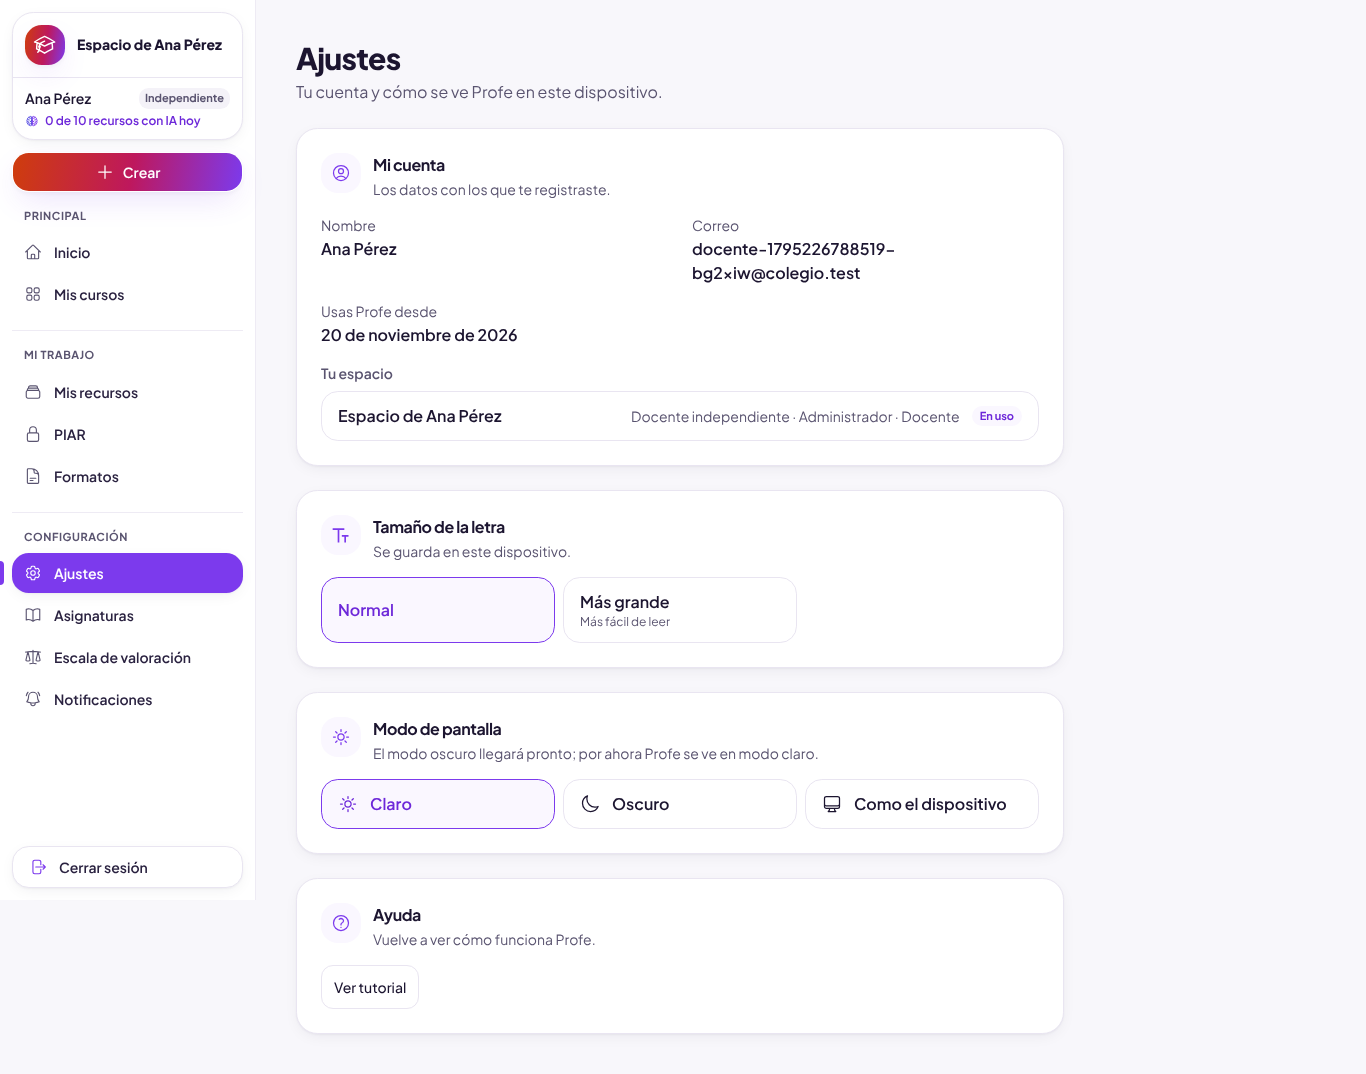
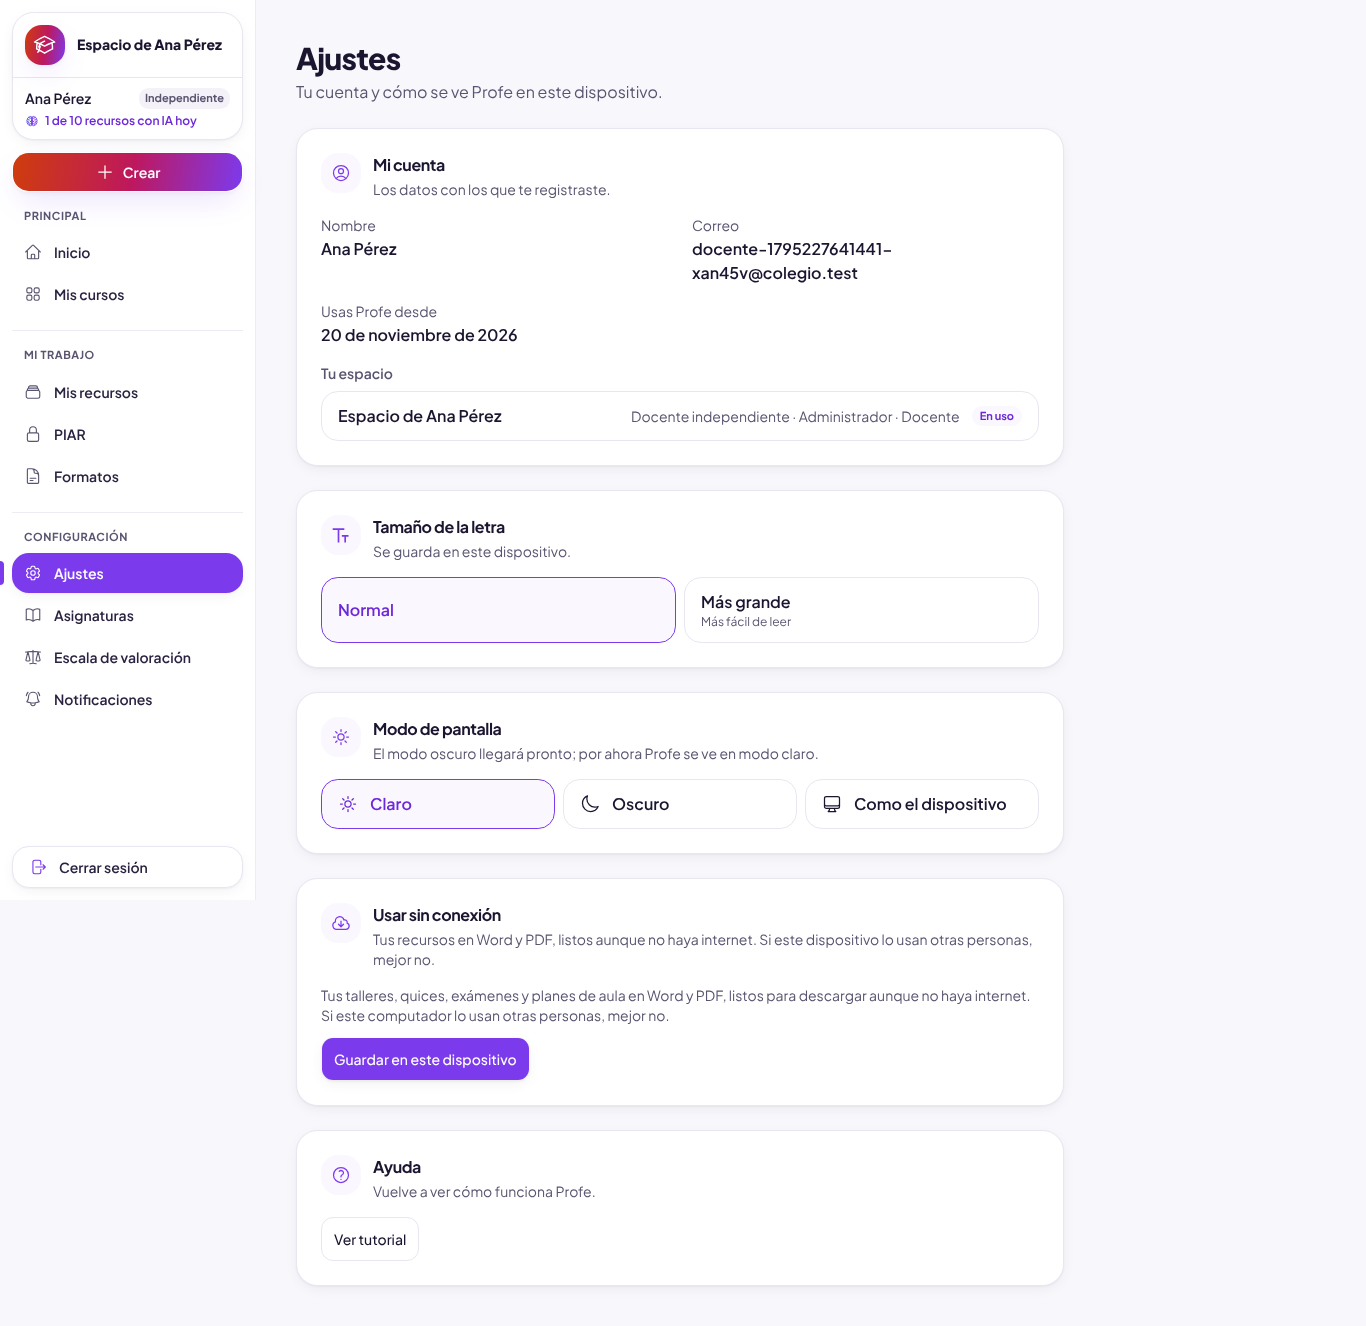
Ajustes: usar sin conexión; "Crear con IA" del curso como en las demás vistas; WhatsApp en el computador
- Ajustes → "Usar sin conexión": activar, ver cuántos van guardados y dejar de guardar.
- En el curso, "Crear con IA" con el color principal y "+" (sin degradado ni ícono de IA).
- SPEC-0031 RN-04: "Enviar por WhatsApp" en el computador descarga la hoja en PDF y abre WhatsApp
  Web; pruebas e2e de CA-0031-01/02/03 (no tenían).

Claude-Session: https://claude.ai/code/session_01TLUAYZfCHSMmitiEZC3hgK

diff --git a/apps/web/tests/e2e/spec-0031.spec.ts b/apps/web/tests/e2e/spec-0031.spec.ts
@@ -1,0 +1,73 @@
+import type { Page } from "@playwright/test";
+import { expect, test } from "./fixtures";
+import { choose, signUpIndependentTeacher } from "./helpers";
+
+// SPEC-0031: compartir por WhatsApp e imprimir directo, en el computador (AI Engine de prueba).
+
+async function quiz(page: Page) {
+  await page.getByRole("button", { name: "Crear mi primer curso" }).first().click();
+  await choose(page, "Asignatura", "Matemáticas");
+  await choose(page, "Grado", "6°");
+  await page.getByLabel("Grupo").fill("6A");
+  await page.getByRole("button", { name: "Crear curso" }).click();
+  await expect(page.getByRole("dialog")).toHaveCount(0);
+  await page.goto("/create?type=QUIZ");
+  await page.getByLabel(/tema vas a trabajar/).fill("Fracciones");
+  await page.getByRole("button", { name: "Usar este tema" }).click();
+  await page.getByRole("button", { name: "Generar quiz" }).click();
+  await expect(page.getByRole("button", { name: "Imprimir" })).toBeVisible({ timeout: 30_000 });
+}
+
+test("CA-0031-01/02/03: imprimir abre el PDF en línea, sin «Compartir» de celular y con «Enviar por WhatsApp»", async ({
+  page,
+}) => {
+  test.setTimeout(120_000);
+  await signUpIndependentTeacher(page);
+  await quiz(page);
+
+  // CA-0031-02: Chromium de escritorio no comparte archivos: no aparece el ícono del celular.
+  await expect(page.getByRole("button", { name: "Compartir (WhatsApp u otra app)" })).toHaveCount(
+    0,
+  );
+
+  // Chromium sin interfaz no abre PDF en pestañas: se registra lo que recibe window.open.
+  await page.evaluate(() => {
+    const w = window as unknown as { opened: string[] };
+    w.opened = [];
+    window.open = (url?: string | URL) => {
+      w.opened.push(String(url));
+      return null;
+    };
+  });
+  const opened = () => page.evaluate(() => (window as unknown as { opened: string[] }).opened);
+
+  // CA-0031-01: "Imprimir" abre la hoja del estudiante en PDF, en línea.
+  await page.getByRole("button", { name: "Imprimir" }).click();
+  const printUrl = new URL((await opened())[0], page.url());
+  expect(printUrl.searchParams.get("doc")).toBe("student");
+  expect(printUrl.searchParams.get("format")).toBe("pdf");
+  expect(printUrl.searchParams.get("inline")).toBe("1");
+  const response = await page.request.get(printUrl.pathname + printUrl.search);
+  expect(response.headers()["content-disposition"]).toMatch(/^inline/);
+
+  // CA-0031-03: en el computador, "Enviar por WhatsApp" descarga la hoja en PDF y abre WhatsApp Web.
+  const [download] = await Promise.all([
+    page.waitForEvent("download"),
+    page.getByRole("button", { name: "Enviar por WhatsApp" }).click(),
+  ]);
+  expect(download.url()).toMatch(/\/export\?doc=student&format=pdf/);
+  expect((await opened())[1]).toBe("https://web.whatsapp.com/");
+  await expect(page.getByText("Se descargó la hoja en PDF")).toBeVisible();
+});
+
+test("Ajustes: guardar los recursos sin conexión se activa y se apaga desde Ajustes", async ({
+  page,
+}) => {
+  await signUpIndependentTeacher(page);
+  await page.goto("/settings");
+  const offline = page.getByRole("region", { name: "Usar sin conexión" });
+  await offline.getByRole("button", { name: "Guardar en este dispositivo" }).click();
+  await expect(offline.getByRole("status")).toContainText("Sin conexión: guardados");
+  await offline.getByRole("button", { name: "Dejar de guardar en este dispositivo" }).click();
+  await expect(offline.getByRole("button", { name: "Guardar en este dispositivo" })).toBeVisible();
+});

diff --git a/apps/web/app/(app)/courses/[courseId]/resources/[resourceId]/share-print.tsx b/apps/web/app/(app)/courses/[courseId]/resources/[resourceId]/share-print.tsx
@@ -1,7 +1,9 @@
 "use client";
 
 import { useEffect, useRef, useState } from "react";
+import { FaWhatsapp } from "react-icons/fa";
 import { HiOutlinePrinter, HiOutlineShare } from "react-icons/hi2";
+import { sileo } from "sileo";
 import { Button } from "@/components/ui/button";
 
 /**
@@ -10,6 +12,8 @@ import { Button } from "@/components/ui/button";
  *   página porque Safari solo deja compartir justo después del toque (sin esperar la red). Si el
  *   navegador no comparte archivos, se descarga como siempre.
  * - Imprimir: abre el PDF en el navegador, listo para imprimir.
+ * - WhatsApp (computador): WhatsApp Web no recibe archivos desde otra página, así que se descarga
+ *   la hoja en PDF y se abre WhatsApp Web para adjuntarla en el chat del grupo.
  */
 export function SharePrint({
   courseId,
@@ -22,8 +26,11 @@ export function SharePrint({
   resourceId: string;
   version: number;
   title: string;
-  /** "share": botón de ícono para la barra del celular; "print": botón de texto en escritorio. */
-  variant: "share" | "print";
+  /**
+   * "share": botón de ícono para la barra del celular; "print" y "whatsapp": botones de texto en
+   * escritorio.
+   */
+  variant: "share" | "print" | "whatsapp";
 }) {
   const url = `/courses/${courseId}/resources/${resourceId}/export?doc=student&format=pdf&version=${version}`;
   const file = useRef<File | null>(null);
@@ -64,6 +71,31 @@ export function SharePrint({
       >
         <HiOutlinePrinter aria-hidden />
         Imprimir
+      </Button>
+    );
+  }
+
+  if (variant === "whatsapp") {
+    return (
+      <Button
+        type="button"
+        size="lg"
+        variant="outline"
+        className="max-md:hidden"
+        onClick={() => {
+          const link = document.createElement("a");
+          link.href = url;
+          link.download = "";
+          link.click();
+          window.open("https://web.whatsapp.com/", "_blank", "noopener");
+          sileo.success({
+            title: "Se descargó la hoja en PDF",
+            description: "En WhatsApp, abre el chat del grupo y adjunta el archivo descargado.",
+          });
+        }}
+      >
+        <FaWhatsapp aria-hidden />
+        Enviar por WhatsApp
       </Button>
     );
   }

diff --git a/apps/web/components/offline/offline-panel.tsx b/apps/web/components/offline/offline-panel.tsx
@@ -222,3 +222,47 @@ export function OfflineBadge({ resourceId, version }: { resourceId: string; vers
     </span>
   );
 }
+
+/**
+ * Ajustes → "Sin conexión": la misma preferencia del navegador que preguntan "Mis recursos" y la hoja
+ * del celular (SPEC-0013 RN-14, SPEC-0018), para cambiarla cuando el docente quiera.
+ */
+export function OfflineSettings() {
+  const preference = usePreference();
+  const { saved, total, syncing } = useOfflineState();
+  if (preference === "unknown") return null;
+  const count = Object.keys(saved).length;
+
+  if (preference === "on") {
+    return (
+      <div className="flex flex-col gap-3">
+        <p className="text-sm font-semibold text-success">
+          <SavedCount />
+        </p>
+        <div className="flex flex-wrap gap-2">
+          {!syncing && count < total && (
+            <Button type="button" variant="outline" className="min-h-11" onClick={forceOfflineSync}>
+              Guardar ahora
+            </Button>
+          )}
+          <Button type="button" variant="outline" className="min-h-11" onClick={stopSaving}>
+            Dejar de guardar en este dispositivo
+          </Button>
+        </div>
+      </div>
+    );
+  }
+
+  return (
+    <div className="flex flex-col gap-3">
+      <p className="text-sm text-muted-foreground">{EXPLANATION}</p>
+      <Button
+        type="button"
+        className="min-h-11 self-start"
+        onClick={() => setOfflinePreference("on")}
+      >
+        Guardar en este dispositivo
+      </Button>
+    </div>
+  );
+}

diff --git a/apps/web/app/(app)/settings/settings-panels.tsx b/apps/web/app/(app)/settings/settings-panels.tsx
@@ -3,6 +3,7 @@
 import { useState, type ReactNode } from "react";
 import type { IconType } from "react-icons";
 import {
+  HiOutlineCloudArrowDown,
   HiOutlineComputerDesktop,
   HiOutlineMoon,
   HiOutlineQuestionMarkCircle,
@@ -12,6 +13,7 @@ import {
 import { RiFontSize2 } from "react-icons/ri";
 import { useLargeText } from "@/components/app-shell/text-size";
 import { useShellStore } from "@/components/app-shell/use-shell-store";
+import { OfflineSettings } from "@/components/offline/offline-panel";
 import { Button } from "@/components/ui/button";
 import { cn } from "@/lib/utils";
 
@@ -217,6 +219,19 @@ export function HelpCard() {
       >
         Ver tutorial
       </Button>
+    </Section>
+  );
+}
+
+/** Guardar los recursos para usarlos sin internet (solo docentes: quien no da clases no tiene). */
+export function OfflineCard() {
+  return (
+    <Section
+      title="Usar sin conexión"
+      description="Tus recursos en Word y PDF, listos aunque no haya internet. Si este dispositivo lo usan otras personas, mejor no."
+      icon={HiOutlineCloudArrowDown}
+    >
+      <OfflineSettings />
     </Section>
   );
 }

diff --git a/apps/web/app/(app)/courses/[courseId]/page.tsx b/apps/web/app/(app)/courses/[courseId]/page.tsx
@@ -5,9 +5,9 @@ import {
   HiOutlineArrowLeft,
   HiOutlineBookOpen,
   HiOutlineCalendarDays,
+  HiOutlinePlus,
   HiOutlineRectangleStack,
 } from "react-icons/hi2";
-import { AiAvatar } from "@/components/brand/ai-avatar";
 import { ScrollableRow } from "@/components/scrollable-row";
 import { buttonVariants } from "@/components/ui/button";
 import { subjectTint } from "@/lib/subject-tint";
@@ -109,9 +109,10 @@ export default async function CoursePage({
           </div>
           <Link
             href={`/create?courseId=${course.id}`}
-            className={cn(buttonVariants({ variant: "brand", size: "lg" }), "max-sm:hidden")}
+            className={cn(buttonVariants({ size: "lg" }), "max-sm:hidden")}
           >
-            <AiAvatar size={20} tone="light" />
+            {/* Igual que en las demás vistas: color principal y "+" (consistencia). */}
+            <HiOutlinePlus aria-hidden />
             Crear con IA
           </Link>
         </div>

diff --git a/apps/web/app/(app)/courses/[courseId]/resources/[resourceId]/resource-view.tsx b/apps/web/app/(app)/courses/[courseId]/resources/[resourceId]/resource-view.tsx
@@ -456,9 +456,16 @@ export function ResourceView({
                 return true;
               }}
             />
-            {/* Bloque 5 de usabilidad: imprimir (escritorio) y compartir por WhatsApp (celular). */}
+            {/* Bloque 5 de usabilidad: imprimir y WhatsApp (escritorio) y compartir por WhatsApp (celular). */}
             <SharePrint
               variant="print"
+              courseId={resource.courseId}
+              resourceId={resource.id}
+              version={resource.version}
+              title={resource.title}
+            />
+            <SharePrint
+              variant="whatsapp"
               courseId={resource.courseId}
               resourceId={resource.id}
               version={resource.version}

diff --git a/apps/web/app/(app)/settings/page.tsx b/apps/web/app/(app)/settings/page.tsx
@@ -2,7 +2,7 @@ import type { Metadata } from "next";
 import { PageHeader } from "@/components/page-header";
 import { getAccount } from "@/modules/auth";
 import { requireTenant } from "@/modules/tenancy";
-import { AccountCard, DisplaySettings, HelpCard } from "./settings-panels";
+import { AccountCard, DisplaySettings, HelpCard, OfflineCard } from "./settings-panels";
 
 export const metadata: Metadata = { title: "Ajustes" };
 
@@ -36,6 +36,7 @@ export default async function SettingsPage() {
         }))}
       />
       <DisplaySettings />
+      {ctx.roles.includes("TEACHER") && <OfflineCard />}
       <HelpCard />
     </div>
   );

diff --git a/apps/web/app/(app)/courses/[courseId]/resources/[resourceId]/quiz-editor.tsx b/apps/web/app/(app)/courses/[courseId]/resources/[resourceId]/quiz-editor.tsx
@@ -375,7 +375,9 @@ export function QuizEditor({
                     itemKey={q.id}
                     label={label}
                     disabledReason={
-                      dirty || !savedKeys.has(q.id) ? "Guarda tus cambios antes de mejorarla con IA" : null
+                      dirty || !savedKeys.has(q.id)
+                        ? "Guarda tus cambios antes de mejorarla con IA"
+                        : null
                     }
                     renderProposal={(item) => <QuestionView q={item} dba={dba} />}
                     actions={actions}

diff --git a/CLAUDE.md b/CLAUDE.md
@@ -31,7 +31,7 @@ Plataforma de gestión y producción pedagógica asistida por IA para docentes e
 - SPEC-0024 implementada (ADR-0019): plan de aula como recurso `LESSON_PLAN` (sesiones con inicio, desarrollo y cierre, evaluación y rúbrica de 4 desempeños; contrato `generation-lesson-plan.v1`, cuesta 1 del cupo; editor `lesson-plan-editor.tsx`; Word/PDF `modules/documents/build-lesson-plan.ts`). Escala de valoración del espacio en `institutions.gradingBands` (`modules/institutions/grading-scale.ts`, nacional 1,0–5,0 por defecto; la cambia el administrador o el docente independiente en `/grading-scale`); la rúbrica la lee al verse o descargarse, nunca se copia en el plan. La IA no escribe rangos ni notas.
 - Prueba de usabilidad del 2026-11-20: informe en [docs/usabilidad/2026-11-20-recorrido-docente.md](docs/usabilidad/2026-11-20-recorrido-docente.md); recorrido reproducible con `npm run ux:recorrido -w @profe/web`.
 - Mejoras de usabilidad (bloques 1–8 de [docs/usabilidad/proximos-pasos.md](docs/usabilidad/proximos-pasos.md)) implementadas el 2026-11-21: SPEC-0027 ajustes rápidos con botones como propuesta (ADR-0020, anexo `adjust.v1`, tabla `resource_adjustments`, cuesta cupo), SPEC-0028 "Usar también en…" mis otros grupos sin cupo, SPEC-0029 el recurso abre como la hoja que se imprime (`previewResource` + `DocPreview`; en e2e, `openEditor(page)` para editar), SPEC-0030 "Para esta semana" en el Inicio, SPEC-0031 compartir e imprimir, SPEC-0032 primer curso con temas propuestos, SPEC-0033 barra de navegación abajo en el celular, SPEC-0034 detalles (avisos abajo, letra más grande, Borrador/Listo).
-- Ajustes (`/settings`): mi cuenta, tamaño de la letra, modo de pantalla (solo visual por ahora) y tutorial; la tarjeta del menú solo tiene instalar y cerrar sesión. "Regenerar" de un ítem ahora es "Mejorar".
+- Ajustes (`/settings`): mi cuenta, tamaño de la letra, modo de pantalla (solo visual por ahora), usar sin conexión y tutorial; la tarjeta del menú solo tiene instalar y cerrar sesión. "Regenerar" de un ítem ahora es "Mejorar". En el computador, el recurso tiene "Enviar por WhatsApp" (SPEC-0031 RN-04).
 - **Siguiente:** volver a correr el recorrido de usabilidad, probar "Compartir" en teléfonos reales; después SPEC-0025 resultados → dificultades → refuerzo y SPEC-0026 validación con docentes (bloque 9).
 - Índice de specs y su estado: [docs/specs/README.md](docs/specs/README.md)
 - Decisiones de arquitectura: [docs/adr/README.md](docs/adr/README.md)

diff --git a/docs/specs/SPEC-0031-compartir-e-imprimir.md b/docs/specs/SPEC-0031-compartir-e-imprimir.md
@@ -23,6 +23,10 @@ Lo que el docente hace con el material es mandarlo al grupo de WhatsApp o imprim
   compartir falla, se descarga como siempre.
 - **RN-02 — Imprimir (computador).** "Imprimir" abre el PDF de la hoja en el navegador
   (`inline=1`, `content-disposition: inline`), listo para imprimir.
+- **RN-04 — WhatsApp (computador).** "Enviar por WhatsApp" junto a "Imprimir": WhatsApp Web no
+  recibe archivos desde otra página, así que descarga la hoja del estudiante en PDF, abre
+  `web.whatsapp.com` en otra pestaña y avisa "adjunta el archivo descargado". (Agregado el
+  2026-11-21: en el computador el docente no veía nada de WhatsApp.)
 - **RN-03:** las mismas reglas de acceso de la ruta `export` (404 a lo ajeno) y su límite por minuto.
 
 ## 3. Criterios de aceptación
@@ -30,6 +34,9 @@ Lo que el docente hace con el material es mandarlo al grupo de WhatsApp o imprim
 - **CA-0031-01:** "Imprimir" abre `…/export?doc=student&format=pdf&inline=1` y el servidor responde
   `inline`.
 - **CA-0031-02:** en un navegador sin `navigator.canShare` para archivos no aparece "Compartir".
+- **CA-0031-03:** en el computador, "Enviar por WhatsApp" descarga la hoja en PDF y abre WhatsApp Web.
+
+Pruebas: `apps/web/tests/e2e/spec-0031.spec.ts`.
 
 Pendiente: validación manual en un iPhone y un Android reales (el contenedor de pruebas no comparte
 archivos).

diff --git a/docs/ESTADO.md b/docs/ESTADO.md
@@ -19,6 +19,16 @@ Bitácora para retomar el trabajo después de borrar la conversación. **Se actu
 
 ## Hecho
 
+- **Ajustes (2), "Crear con IA" y WhatsApp en el computador** (2026-11-21), pedido del usuario.
+  - Ajustes → "Usar sin conexión": activar, ver cuántos van guardados y dejar de guardar
+    (`OfflineSettings` en `components/offline/offline-panel.tsx`; solo docentes).
+  - En el curso, "Crear con IA" usa el color principal y "+", como en las demás vistas (sin el
+    degradado ni el ícono de IA).
+  - SPEC-0031 RN-04: "Enviar por WhatsApp" en el computador (descarga el PDF y abre WhatsApp Web). El
+    "Compartir" del celular (Web Share) ya existía, pero solo se ve en el teléfono; por eso no aparecía.
+  - Pruebas: `spec-0031.spec.ts` nueva (CA-0031-01/02/03 no tenían prueba, y Ajustes sin conexión);
+    `ux`, `spec-0013-offline` y `spec-0018` en verde. Capturas en `docs/design/capturas/ajustes/`.
+
 - **Ajustes** (2026-11-21), pedido del usuario. Página nueva `/settings` ("Configuración → Ajustes" en el
   menú; quien no da clases la ve en "Cuenta"): Mi cuenta (nombre, correo y fecha con que se registró, y sus
   espacios con el rol; solo lectura, `getAccount` en `modules/auth`), tamaño de la letra (Normal / Más
